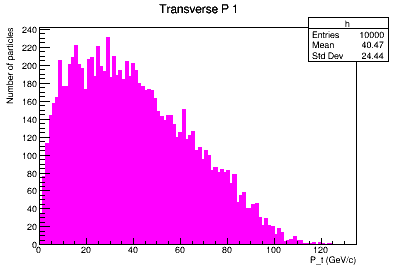
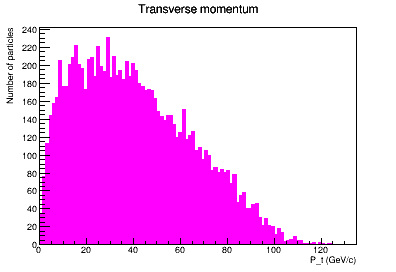
Zad 3: Uredivanje histograma

Changed region(s): [[0.7576, 0.0588, 1.0, 0.2353], [0.3333, 0.0, 0.6667, 0.0588]]

diff --git a/Vjezbe_5/Analyzer.cpp b/Vjezbe_5/Analyzer.cpp
@@ -3,6 +3,7 @@
 #include <TH2.h>
 #include <TStyle.h>
 #include <TCanvas.h>
+#include <TLegend.h>
 #include <iostream>
 
 
@@ -18,6 +19,13 @@ void Analyzer::PlotHistogram()
     h->GetYaxis()->SetTitle("Number of particles");
     h->SetLineColor(kMagenta);
     h->SetFillColor(kMagenta);
+    h->SetStats(0);
+    h->SetTitle("Transverse momentum");
+
+    //Create legend
+    TLegend* leg = new TLegend(0.75, 0.6, 0.9, 0.9); // constructor takes coord of lower left and upper right corners
+    //leg->SetHeader("");
+    leg->AddEntry(h, "Higss Boson Decay Simulation", "f");
     c.Print("H_TransP_1.png");
     c.SaveAs("H_TransP_1.pdf");
     c.Write();
